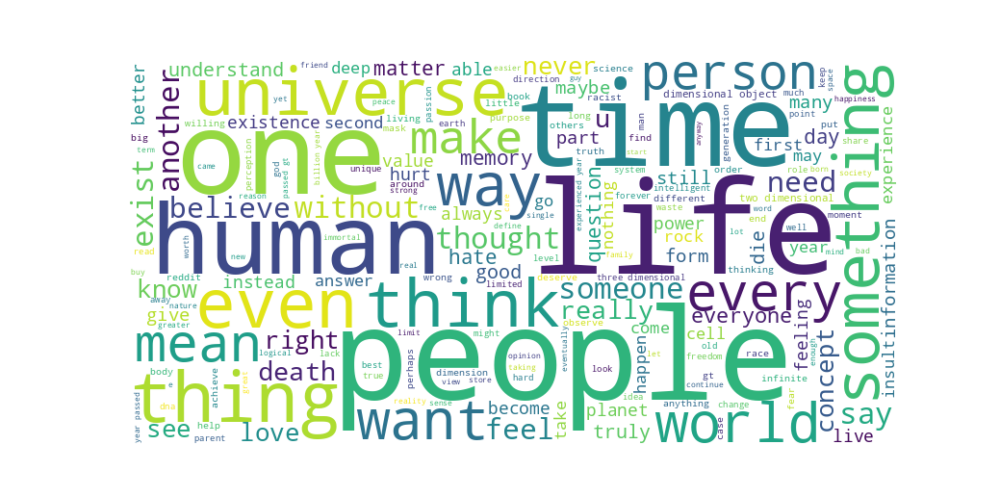
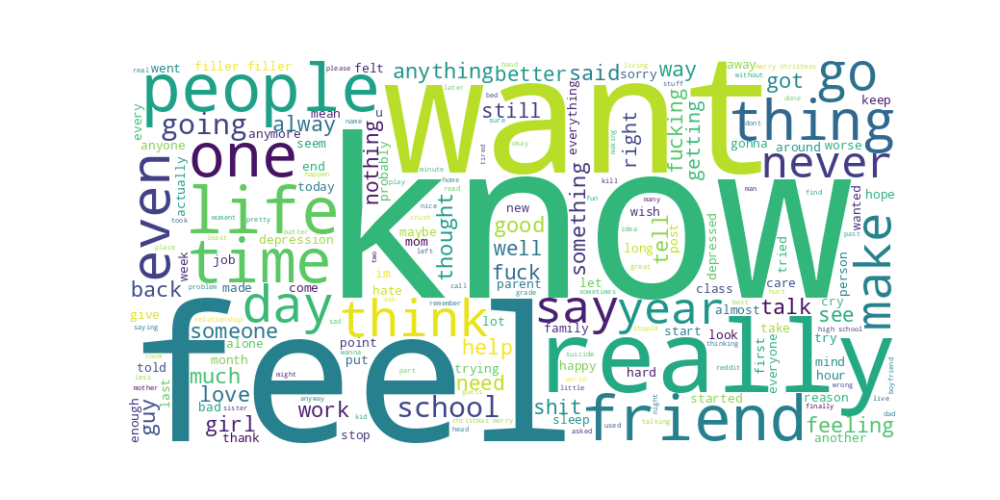
works until k means with the first 1000

diff --git a/depression_analysis.py b/depression_analysis.py
@@ -17,31 +17,33 @@ from multiprocessing import Pool
 import pickle
 
 
-DATA_PATH = 'data/'
-DATA_FILE = 'reddit_depression_dataset.csv'
+DATA_PATH = "data/"
+DATA_FILE = "reddit_depression_dataset.csv"
 NUM_CORES = 4
 SAMPLE_SIZE = 10000
+
 
 # Define the custom preprocessing function with lemmatization for pool.map
 def preprocess_text(text):
     # Convert to lowercase and remove punctuation
     text = text.lower()
-    text = re.sub(r'\W', ' ', text)
-    text = re.sub(r'\s+', ' ', text)
-    
+    text = re.sub(r"\W", " ", text)
+    text = re.sub(r"\s+", " ", text)
+
     # Tokenize and remove stopwords
     words = text.split()
-    words = [word for word in words if word not in stopwords.words('english')]
-    
+    words = [word for word in words if word not in stopwords.words("english")]
+
     # Lemmatize each word
     lemmatized_words = [lemmatizer.lemmatize(word) for word in words]
-    
+
     # Join words back to a single string
-    return ' '.join(lemmatized_words)
+    return " ".join(lemmatized_words)
+
 
 def preprocess(data_path):
 
-    df = pd.read_csv(data_path).head(100)
+    df = pd.read_csv(data_path).sample(frac=1).head(1000)
     print(df.head())
 
     # Display descriptive statistics for numerical columns
@@ -51,31 +53,34 @@ def preprocess(data_path):
     # Count of NaNs in each column
     print(df.isna().sum())
 
-    #Preprocessing
-    #1) Exclude the empty/NA body
+    # Preprocessing
+    # 1) Exclude the empty/NA body
 
     # Drop rows where 'body' column is NaN
-    df = df.dropna(subset=['body'])
-    df = df.dropna(subset=['Unnamed: 0'])
+    df = df.dropna(subset=["body"])
+    df = df.dropna(subset=["Unnamed: 0"])
     # Drop rows where all columns except 'subreddit' and 'Unnamed: 0' are NaN
-    df = df.dropna(how='all', subset=[col for col in df.columns if col not in ['subreddit', 'Unnamed: 0']])
+    df = df.dropna(
+        how="all",
+        subset=[col for col in df.columns if col not in ["subreddit", "Unnamed: 0"]],
+    )
 
     # Replace NaN values in 'num_comments' column with 0.0
-    df['num_comments'] = df['num_comments'].fillna(0.0)
+    df["num_comments"] = df["num_comments"].fillna(0.0)
     print(df.head())
 
     # Check if there is a 0 in the 'upvotes' column
-    has_zero = (df['upvotes'] == 0).any()
+    has_zero = (df["upvotes"] == 0).any()
 
     print("Is there a 0 in the upvotes column?", has_zero)
 
-    #I don t thing we need the created_UTC since it is just the number the reddit was created
-    df= df.drop(columns=['created_utc'])  # Feature matrix without 'label' column
+    # I don t thing we need the created_UTC since it is just the number the reddit was created
+    df = df.drop(columns=["created_utc"])  # Feature matrix without 'label' column
 
     # Download NLTK resources if not already downloaded
-    nltk.download('stopwords')
-    nltk.download('wordnet')
-    nltk.download('omw-1.4')  # Download for better lemmatization support
+    nltk.download("stopwords")
+    nltk.download("wordnet")
+    nltk.download("omw-1.4")  # Download for better lemmatization support
 
     # Initialize the WordNet lemmatizer
     global lemmatizer
@@ -83,37 +88,42 @@ def preprocess(data_path):
 
     # Apply preprocessing using multiprocessing
     with Pool(processes=NUM_CORES) as pool:
-        cleaned_bodies = pool.map(preprocess_text, df['body'].tolist())
+        cleaned_bodies = pool.map(preprocess_text, df["body"].tolist())
 
     # Assign the cleaned bodies back to the DataFrame
-    df['cleaned_body'] = cleaned_bodies
+    df["cleaned_body"] = cleaned_bodies
 
     # Display the result
-    print(df[['body', 'cleaned_body']].head())
+    print(df[["body", "cleaned_body"]].head())
 
     # Convert non-string values in 'cleaned_body' to empty strings
-    df['cleaned_body'] = df['cleaned_body'].fillna('').astype(str)
+    df["cleaned_body"] = df["cleaned_body"].fillna("").astype(str)
 
     return df
 
-def word_cloud_function(X, path='figures/wordcloud.png'):
+
+def word_cloud_function(X, path="figures/wordcloud.png"):
     # Combine all preprocessed text into a single string for word cloud generation
-    text_for_wordcloud = ' '.join(X['cleaned_body'])
+    text_for_wordcloud = " ".join(X["cleaned_body"])
 
     # Generate the word cloud
-    wordcloud = WordCloud(width=800, height=400, background_color='white').generate(text_for_wordcloud)
+    wordcloud = WordCloud(width=800, height=400, background_color="white").generate(
+        text_for_wordcloud
+    )
 
     # Plot the word cloud
     plt.figure(figsize=(10, 5))
-    plt.imshow(wordcloud, interpolation='bilinear')
-    plt.axis('off')
+    plt.imshow(wordcloud, interpolation="bilinear")
+    plt.axis("off")
     plt.savefig(path)
+
 
 def minhash_vectorize(text, num_perm=1000):
     minhash = MinHash(num_perm=num_perm)
     for word in text.split():
-        minhash.update(word.encode('utf8'))
+        minhash.update(word.encode("utf8"))
     return np.array(minhash.hashvalues)
+
 
 def minhashing(X):
     # Define MinHash parameters
@@ -121,52 +131,72 @@ def minhashing(X):
 
     # Apply MinHash vectorization using multiprocessing
     with Pool(processes=NUM_CORES) as pool:
-        minhash_vectors = pool.map(minhash_vectorize, X['cleaned_body'].tolist())
+        minhash_vectors = pool.map(minhash_vectorize, X["cleaned_body"].tolist())
 
     # Assign the MinHash vectors back to the DataFrame
-    X['minhash_vector'] = minhash_vectors
+    X["minhash_vector"] = minhash_vectors
     return X
 
+
 def kmeans_clustering(X_train, y_train, X_val, y_val, num_clusters=3):
+    # Convert MinHash vectors to 2D array
+    X_train_minhash = np.vstack(X_train)
+    X_val_minhash = np.vstack(X_val)
+
     # Define and fit the KMeans model with specified number of clusters
     kmeans = KMeans(n_clusters=num_clusters, random_state=42)
-    kmeans.fit(X_train)
+    kmeans.fit(X_train_minhash)
 
     # Assign each training review to a cluster
-    X_train['cluster'] = kmeans.labels_
+    train_clusters = kmeans.labels_
 
     # Map each cluster to the most frequent sentiment in that cluster
     cluster_to_sentiment = {}
     for cluster in range(num_clusters):
-        cluster_labels = y_train[X_train['cluster'] == cluster]
+        cluster_labels = y_train[train_clusters == cluster]
         most_common_sentiment = Counter(cluster_labels).most_common(1)[0][0]
         cluster_to_sentiment[cluster] = most_common_sentiment
 
     # Predict the clusters for the validation set
-    val_clusters = kmeans.predict(X_val)
+    val_clusters = kmeans.predict(X_val_minhash)
 
     # Map the clusters to sentiments based on training data cluster assignments
+    y_train_pred = [cluster_to_sentiment[cluster] for cluster in train_clusters]
     y_val_pred = [cluster_to_sentiment[cluster] for cluster in val_clusters]
 
     # Calculate and print accuracy
-    accuracy_train = accuracy_score(y_train, [cluster_to_sentiment[cluster] for cluster in kmeans.labels_])
+    accuracy_train = accuracy_score(y_train, y_train_pred)
     accuracy_val = accuracy_score(y_val, y_val_pred)
     print("Training accuracy:", accuracy_train)
     print("Validation accuracy:", accuracy_val)
 
     return kmeans, cluster_to_sentiment, accuracy_train, accuracy_val
 
-if __name__ == '__main__':
-    df = preprocess(DATA_PATH+DATA_FILE)
-    with open(DATA_PATH + 'df_clean.pkl', 'wb') as f:
+
+if __name__ == "__main__":
+    df = preprocess(DATA_PATH + DATA_FILE)
+    with open(DATA_PATH + "df_clean.pkl", "wb") as f:
         pickle.dump(df, f)
     word_cloud_function(df)
     # Save the cleaned DataFrame to a pickle file
-    
+
     df = minhashing(df)
-    with open(DATA_PATH + 'df_minhash.pkl', 'wb') as f:
-        pickle.dump(df, f)
-    # kmeans_clustering(df, y_train, X_val, y_val, num_clusters=3)
+
+    X_train, X_test, y_train, y_test = train_test_split(
+        df["minhash_vector"], df["label"], test_size=0.2, random_state=42
+    )
+
+    kmeans, cluster_to_sentiment, accuracy_train, accuracy_val = kmeans_clustering(
+        X_train, y_train, X_test, y_test, num_clusters=3
+    )
+    k_means_output = {
+        "kmeans": kmeans,
+        "cluster_to_sentiment": cluster_to_sentiment,
+        "accuracy_train": accuracy_train,
+        "accuracy_val": accuracy_val,
+    }
+    with open(DATA_PATH + "k_means_output.pkl", "wb") as f:
+        pickle.dump(k_means_output, f)
 
     # If statement just to not run the code right now
     # have to fix the code prfore running
@@ -175,8 +205,12 @@ if __name__ == '__main__':
         y = y.iloc[:999].copy()
 
         # Train-validation-test split with an 80-10-10 ratio
-        X_train, X_temp, y_train, y_temp = train_test_split(X, y, test_size=0.2, random_state=42)
-        X_val, X_test, y_val, y_test = train_test_split(X_temp, y_temp, test_size=0.5, random_state=42)
+        X_train, X_temp, y_train, y_temp = train_test_split(
+            X, y, test_size=0.2, random_state=42
+        )
+        X_val, X_test, y_val, y_test = train_test_split(
+            X_temp, y_temp, test_size=0.5, random_state=42
+        )
 
         # Verify the split sizes
         print("Training set size:", X_train.shape[0])
@@ -186,24 +220,33 @@ if __name__ == '__main__':
         vectorizer = CountVectorizer(binary=True)
 
         # Fit on training data and transform both training and validation data
-        X_train_oh = vectorizer.fit_transform(X_train['cleaned_body'])
-        X_val_oh = vectorizer.transform(X_val['cleaned_body'])
+        X_train_oh = vectorizer.fit_transform(X_train["cleaned_body"])
+        X_val_oh = vectorizer.transform(X_val["cleaned_body"])
 
         # Perform KMeans clustering
-        kmeans, cluster_to_sentiment, accuracy_train, accuracy_val = kmeans_clustering(X_train_oh, y_train, X_val_oh)
+        kmeans, cluster_to_sentiment, accuracy_train, accuracy_val = kmeans_clustering(
+            X_train_oh, y_train, X_val_oh
+        )
 
         # Plotting the clusters for training data
         # Reduce the dimensionality for visualization using PCA
         pca = PCA(n_components=2)
-        train_vectors_2d = pca.fit_transform(X_train_oh.toarray())  # Convert sparse matrix to dense for PCA
+        train_vectors_2d = pca.fit_transform(
+            X_train_oh.toarray()
+        )  # Convert sparse matrix to dense for PCA
 
         plt.figure(figsize=(10, 7))
         for cluster in range(3):
-            cluster_points = train_vectors_2d[X_train['cluster'] == cluster]
-            plt.scatter(cluster_points[:, 0], cluster_points[:, 1], label=f'Cluster {cluster}', alpha=0.6)
+            cluster_points = train_vectors_2d[X_train["cluster"] == cluster]
+            plt.scatter(
+                cluster_points[:, 0],
+                cluster_points[:, 1],
+                label=f"Cluster {cluster}",
+                alpha=0.6,
+            )
 
-        plt.title('KMeans Clusters of One-Hot Encoded Vectors (PCA-reduced to 2D)')
-        plt.xlabel('PCA Component 1')
-        plt.ylabel('PCA Component 2')
+        plt.title("KMeans Clusters of One-Hot Encoded Vectors (PCA-reduced to 2D)")
+        plt.xlabel("PCA Component 1")
+        plt.ylabel("PCA Component 2")
         plt.legend()
         plt.show()
